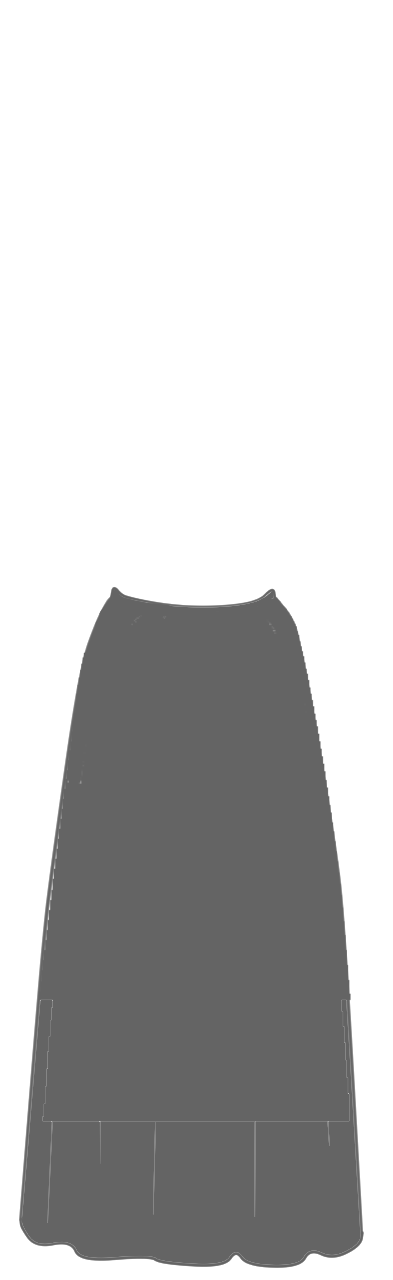
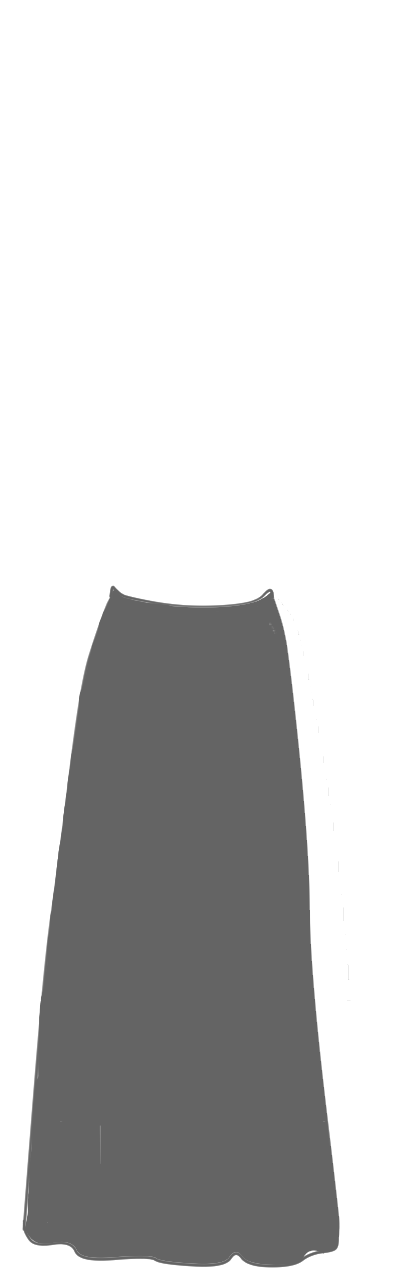
added waistline

diff --git a/code/generated.js b/code/generated.js
@@ -30,7 +30,7 @@ const outfit_list = ["wheelchair","bottom","top","overshirt","coat","socks","sho
 const has_sleeves_list = ["top","overshirt","coat",];
 const sleeve_list = ["top_sleeves","overshirt_sleeves","coat_sleeves",];
 const accessory_list = ["eyewear","neckwear","earrings","gloves","hat",];
-const defining_list = ["eyewear","neckwear","earrings","gloves","wheelchair","bottom","top","overshirt","coat","socks","shoes","top_sleeves","overshirt_sleeves","coat_sleeves","body","nose","mouth","eyebrows","complexion","ears","cheeks","eyes","fringe","facial_hair","head","chest",];
+const defining_list = ["eyewear","neckwear","earrings","gloves","wheelchair","bottom","top","overshirt","coat","socks","shoes","top_sleeves","overshirt_sleeves","coat_sleeves","body","nose","mouth","eyebrows","complexion","ears","cheeks","eyes","fringe","facial_hair","head","chest","waistline",];
 
 const hat_back_list_d = [["none","bandanna","beanie","bonnet","bowler","broad hat","cap","fedora","top hat","witch hat","top hat","scarf","turban","hijab",],["none","bandanna","beanie","bonnet","bowler","broad hat","cap","fedora","top hat","witch hat","top hat","scarf","turban","hijab",],[],];
 const hat_back_dec_list_d = [["scarf",],["scarf",],[],];
@@ -48,6 +48,7 @@ const overshirt_sleeve_list_d = [["sleeveless","short","long",],["sleeveless","s
 const coat_sleeve_list_d = [["sleeveless","short","scrunched","long","long blocky",],["sleeveless","short","scrunched","long","long blocky",],[],];
 const bottom_list_d = [["none","empire skirt","split empire skirt","long skirt",],["none","breeches","trousers",],["empire skirt","split empire skirt","breeches",],];
 const bottom_dec_list_d = [["split empire skirt","empire skirt",],["split empire skirt","empire skirt",],[],];
+const waistline_list_d = [["none","low","high",],["none","low","high",],[],];
 const neckwear_list_d = [["none","bow","bandanna","scarf","beaded necklace","choker","pendant","jewelled necklace","beads",],["none","bow","bandanna","scarf","cravat","tie","bow tie",],["bow","bandanna",],];
 const neckwear_dec_list_d = [["jewelled necklace","beaded necklace",],["jewelled necklace","beaded necklace",],[],];
 const overshirt_list_d = [["none","button up vee","open shirt","vee","sweater",],["none","button up vee","open shirt","vee","sweater",],[],];
@@ -111,6 +112,8 @@ add_defining_object("coat_sleeves",coat_sleeve_list_d)
 add_image_object("bottom",bottom_list_d,"clothes",[0,0,314,1024])
 add_defining_object("bottom",bottom_list_d)
 add_image_object("bottom_dec",bottom_dec_list_d,"clothes",[0,0,314,1024])
+add_image_object("waistline",waistline_list_d,"clothes",[0,0,314,1024])
+add_defining_object("waistline",waistline_list_d)
 add_image_object("neckwear",neckwear_list_d,"clothes",[0,0,314,1024])
 add_defining_object("neckwear",neckwear_list_d)
 add_image_object("neckwear_dec",neckwear_dec_list_d,"clothes",[0,0,314,1024])

diff --git a/code/datastructures.js b/code/datastructures.js
@@ -194,7 +194,7 @@ document.addEventListener('alpine:init', () => {
                         buttonName = objName+"[0]";
                         value = "listOf(index)";
                 }
-                    break;       
+                    break;          
                 case 'accessory':
                     obj_index = 'findDefiningIndex(accessory_names[$store.alpineData.current_accessory])';
                     objName = '$store.alpineData.current_defining_objects['+obj_index+'].value_list';
@@ -295,6 +295,7 @@ document.addEventListener('alpine:init', () => {
         {"name":"top_sleeves","value_list":[1,1,1,1,1,1,1,1,1,1],"colour1":"#901E3B","colour2":"#4C6BC2"},
         {"name":"top","value_list":[1,1,1,1,1,1,1,1,1,1],"colour1":"#901E3B","colour2":"#4C6BC2"},
         {"name":"bottom","value_list":[2,2,2,2,2,2,2,2,2,2],"colour1":"#FAE181","colour2":"#FAF1CF"},
+        {"name":"waistline","value_list":[2,2,2,2,2,2,2,2,2,2],"colour1":"#FAE181","colour2":"#FAF1CF"},
         {"name":"overshirt_sleeves","value_list":[1,1,1,1,1,1,1,1,1,1],"colour1":"#901E3B","colour2":"#4C6BC2"},
         {"name":"overshirt","value_list":[0,0,0,0,0,0,0,0,0,0],"colour1":"#4C6BC2","colour2":"#FAE181"},
         {"name":"neckwear","value_list":[0,0,0,0,0,0,0,0,0,0],"colour1":"#43A92D","colour2":"#43A92D"},

diff --git a/index.html b/index.html
@@ -101,6 +101,7 @@
               <div class="row row-cols-2 gy-3">
                 <div class="col"><div x-data="dropdown('Style','current_clothing','clothing')" x-bind="dropbtn" ></div></div>
                 <div class="col" x-show="has_sleeves_list.includes(clothing_names[$store.alpineData.current_clothing])"><div x-data="dropdown('Sleeves','current_clothing','sleeves')" x-bind="dropbtn" ></div></div>
+                <div class="col" x-show="['bottom'].includes(clothing_names[$store.alpineData.current_clothing])"><div x-data="dropdown('Waistline','waistline','body')" x-bind="dropbtn" ></div></div>
               </div>
               <div class="row row-cols-2 gy-3">
 

diff --git a/code/full images.js b/code/full images.js
@@ -172,7 +172,7 @@ add_colour_children("coat", ["coat_back","wheelchair_coat","coat_sleeves"]);
 add_colour2_children("coat", ["coat_dec"]);
 
 add_value_children("bottom", ["wheelchair_bottom","wheelchair_bottom_dec","bottom_dec",]);
-add_colour_children("bottom", ["wheelchair_bottom"]);
+add_colour_children("bottom", ["wheelchair_bottom","waistline"]);
 add_colour2_children("bottom", ["bottom_dec","wheelchair_bottom_dec"]);
 
 add_value_children("top", ["top_collar","top_dec"]);

diff --git a/code/generate_images.py b/code/generate_images.py
@@ -227,6 +227,12 @@ bottom_list_m = ["none","breeches","trousers"]
 bottom_list_w = ["empire skirt","split empire skirt","breeches"]
 bottom_list_d = [bottom_list_f, bottom_list_m, bottom_list_w]
 
+waistline_list_u=["none","low","high"]
+waistline_list_f = waistline_list_u+[]
+waistline_list_m = waistline_list_u+[]
+waistline_list_w = []
+waistline_list_d = [waistline_list_f,waistline_list_m,waistline_list_w]
+
 neckwear_list_u = ["none", "bow", "bandanna", "scarf"]  
 neckwear_list_f = neckwear_list_u+[ "beaded necklace","choker","pendant","jewelled necklace","beads",] 
 neckwear_list_m = neckwear_list_u+["cravat","tie","bow tie"]
@@ -302,7 +308,7 @@ accessory_list = ["eyewear","neckwear", "earrings", "gloves",]
 outfit_list = ["wheelchair", "bottom","top", "overshirt", "coat", "socks","shoes"]
 has_sleeves_list = ["top","overshirt","coat"]
 sleeve_list = [x +"_sleeves" for x in has_sleeves_list]
-defining_list = remove_dups(accessory_list+ outfit_list+sleeve_list+skin_list_defining+expression_list+["fringe","facial_hair", "head","chest"])
+defining_list = remove_dups(accessory_list+ outfit_list+sleeve_list+skin_list_defining+expression_list+["fringe","facial_hair", "head","chest","waistline"])
 
 #extra info
 
@@ -396,6 +402,7 @@ add_item("coat_sleeves", "coat_sleeve_list_d", coat_sleeve_list_d, "clothes/coat
 
 add_item("bottom", "bottom_list_d", bottom_list_d, "clothes", default_box)
 add_item("bottom_dec", "bottom_dec_list_d", bottom_dec_list_d, "clothes", default_box)
+add_item("waistline", "waistline_list_d", waistline_list_d, "clothes", default_box)
 add_item("neckwear", "neckwear_list_d", neckwear_list_d, "clothes", default_box)
 add_item("neckwear_dec", "neckwear_dec_list_d", neckwear_dec_list_d, "clothes", default_box)
 
@@ -830,7 +837,7 @@ def runStuff():
     # "coat","coat_sleeves","coat_dec","coat_back"
     #"top","top_sleeves","top_dec","top_collar"
     for c in closet:
-        if c.name in ["hat_middle", "hat_hijab","hat_back","hat_front","hat_front_dec"]:
+        if c.name in ["waistline"]:
             process_portrait_part(c)
     makeWinks()
     #makeStubble() 
@@ -841,6 +848,3 @@ def runStuff():
     #make_coat()
 
 runStuff()
-
-##### TEMP FUNCTIONS
-##########
